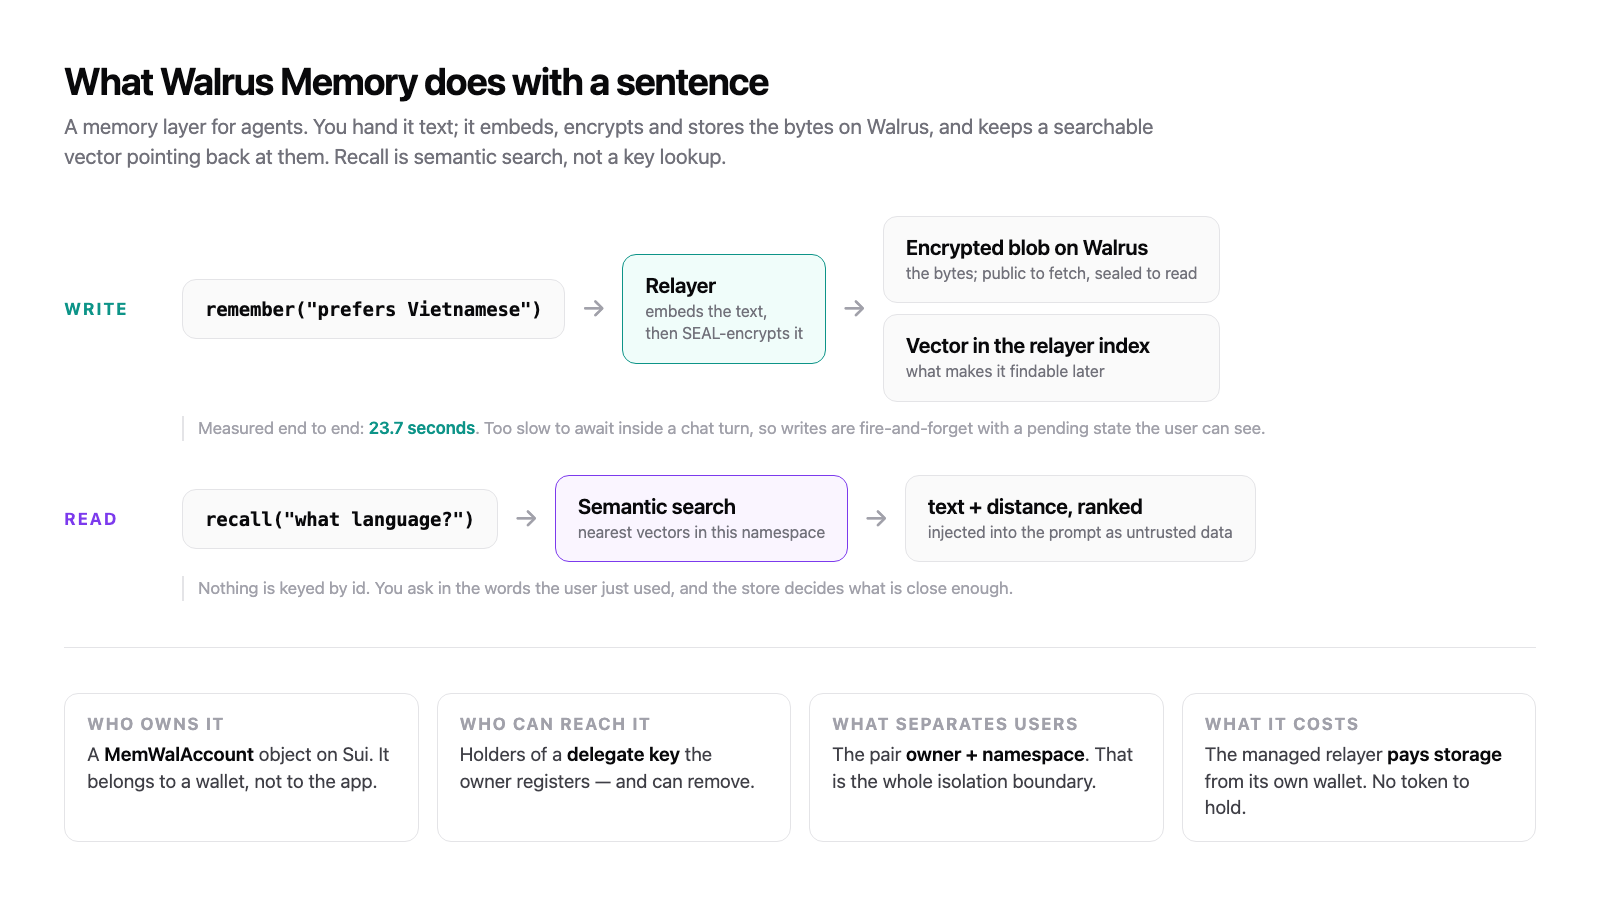
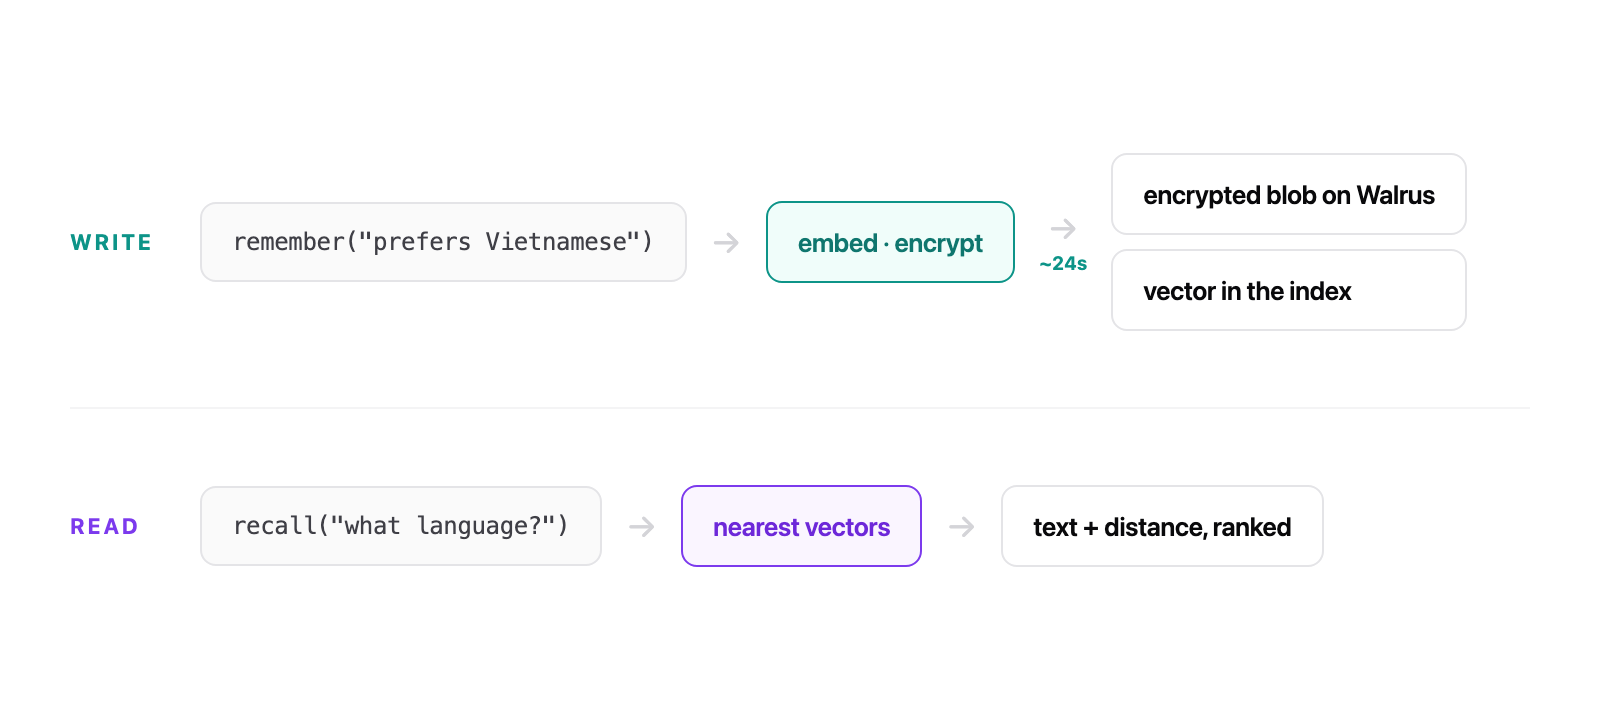
Cut the prose out of the figures and let the captions carry it

diff --git a/docs/article-images/fig2-revoke.html b/docs/article-images/fig2-revoke.html
@@ -2,87 +2,35 @@
 <style>
   *{box-sizing:border-box;margin:0;padding:0}
   html,body{background:#fff}
-  .fig{width:1600px;height:770px;background:#fff;color:#09090b;
+  .fig{width:1600px;height:440px;background:#fff;color:#09090b;
     font-family:-apple-system,BlinkMacSystemFont,"Segoe UI",Roboto,Helvetica,Arial,sans-serif;
-    padding:58px 64px;display:flex;flex-direction:column}
-  h2{font-size:38px;letter-spacing:-.03em;font-weight:660;margin-bottom:8px}
-  .sub{font-size:21px;color:#71717a;margin-bottom:42px;max-width:92ch;line-height:1.45}
-  .cols{display:flex;gap:56px;flex:1}
-  .col{flex:1;display:flex;flex-direction:column}
-  .h3{font-size:17px;letter-spacing:.12em;text-transform:uppercase;font-weight:700;
-    color:#a1a1aa;margin-bottom:18px}
-  .acct{border:1.5px solid #0d9488;border-radius:16px;background:#f0fdfa;padding:24px 26px}
-  .acct .own{font-size:16px;color:#0f766e;letter-spacing:.06em;text-transform:uppercase;
-    font-weight:700;margin-bottom:6px}
-  .acct .nm{font-size:25px;font-weight:660;letter-spacing:-.02em;margin-bottom:4px}
-  .acct .id{font-family:ui-monospace,SFMono-Regular,Menlo,Consolas,monospace;font-size:16px;
-    color:#71717a}
-  .keys{margin-top:16px;display:flex;flex-direction:column;gap:10px}
-  .key{display:flex;align-items:center;gap:13px;border:1.5px solid #e4e4e7;border-radius:12px;
-    padding:14px 18px;background:#fff}
-  .key .dot{width:9px;height:9px;border-radius:50%;background:#0d9488;flex:0 0 auto}
-  .key.off .dot{background:#d4d4d8}
-  .key .nm{font-size:19px;font-weight:600;letter-spacing:-.01em}
-  .key .sub2{font-size:16px;color:#a1a1aa;margin-left:auto}
-  .key.off .nm{color:#a1a1aa}
-  .caption{font-size:17px;color:#71717a;line-height:1.5;margin-top:18px;
-    border-left:2px solid #e4e4e7;padding-left:14px}
-  .caption b{color:#09090b;font-weight:620}
-  /* The measured revocation timeline. */
-  .tl{display:flex;flex-direction:column;gap:0;margin-top:2px}
-  .step{display:flex;gap:18px;align-items:flex-start}
-  .gut{flex:0 0 92px;text-align:right;font-family:ui-monospace,SFMono-Regular,Menlo,Consolas,monospace;
-    font-size:20px;font-weight:620;color:#09090b;padding-top:15px}
-  .line{flex:0 0 auto;width:2px;background:#e4e4e7;position:relative;align-self:stretch;margin:0 4px}
-  .step .card{flex:1;border:1.5px solid #e4e4e7;border-radius:12px;padding:15px 20px;
-    margin-bottom:12px;background:#fafafa}
-  .step .card .k{font-size:19px;font-weight:620;letter-spacing:-.01em}
-  .step .card .v{font-size:16px;color:#71717a;margin-top:3px;line-height:1.4}
-  .step.warn .card{border-color:#f59e0b;background:#fffbeb}
-  .step.warn .gut{color:#b45309}
-  .step.good .card{border-color:#0d9488;background:#f0fdfa}
-  .step.good .gut{color:#0f766e}
+    padding:60px 70px;display:flex;flex-direction:column;justify-content:center}
+  .track{position:relative;display:flex;align-items:flex-start;justify-content:space-between}
+  .rail{position:absolute;left:8%;right:8%;top:19px;height:4px;background:#e4e4e7;border-radius:2px}
+  /* Solid while the removed key was confirmed still working; dashed across the
+     gap between the last accepted call and the first refusal, which is the part
+     the measurement does not pin down. */
+  .rail .live{position:absolute;left:0;width:64.9%;height:4px;background:#f59e0b;border-radius:2px}
+  .rail .gap{position:absolute;left:64.9%;width:26.9%;height:4px;
+    background:repeating-linear-gradient(90deg,#f59e0b 0 9px,transparent 9px 18px)}
+  .pt{position:relative;flex:1;display:flex;flex-direction:column;align-items:center;gap:18px;
+    text-align:center}
+  .dot{width:42px;height:42px;border-radius:50%;background:#fff;border:4px solid #d4d4d8;z-index:1}
+  .pt.warn .dot{border-color:#f59e0b}
+  .pt.end .dot{border-color:#0d9488;background:#0d9488}
+  .t{font-family:ui-monospace,SFMono-Regular,Menlo,Consolas,monospace;font-size:44px;
+    font-weight:700;letter-spacing:-.03em}
+  .pt.warn .t{color:#b45309}
+  .pt.end .t{color:#0f766e}
+  .l{font-size:24px;line-height:1.35;color:#3f3f46;max-width:19ch;font-weight:500}
+  .pt.end .l{font-weight:620;color:#09090b}
 </style>
 <div class="fig">
-  <h2>The bot is a delegate, and a delegate can be fired</h2>
-  <div class="sub">The account belongs to the user's wallet. The bot never holds the owner key — only a
-    delegate key the owner registered on chain and can remove without asking anyone.</div>
-
-  <div class="cols">
-    <div class="col">
-      <div class="h3">The account, on Sui</div>
-      <div class="acct">
-        <div class="own">Owned by your wallet</div>
-        <div class="nm">MemWalAccount</div>
-        <div class="id">0x5a25…a07aa · a public object anyone can read</div>
-        <div class="keys">
-          <div class="key"><span class="dot"></span><span class="nm">hippo (the chatbot)</span><span class="sub2">server-side only</span></div>
-          <div class="key"><span class="dot"></span><span class="nm">Walrus Memory MCP</span><span class="sub2">same memory, other agent</span></div>
-          <div class="key off"><span class="dot"></span><span class="nm">whatever you build next</span><span class="sub2">not yet added</span></div>
-        </div>
-      </div>
-      <div class="caption">The memory is not portable because it is exported. It is portable because a
-        <b>second delegate key on the same account</b> reads exactly what the first one wrote.</div>
-    </div>
-
-    <div class="col">
-      <div class="h3">Removing the key — measured on mainnet</div>
-      <div class="tl">
-        <div class="step"><div class="gut">0s</div><div class="line"></div>
-          <div class="card"><div class="k">You remove the key on chain</div>
-            <div class="v">One transaction from your wallet. The bot is not asked and cannot object.</div></div></div>
-        <div class="step"><div class="gut">3s</div><div class="line"></div>
-          <div class="card"><div class="k">The chain stops listing it</div>
-            <div class="v">The account now shows one delegate instead of two.</div></div></div>
-        <div class="step warn"><div class="gut">15s</div><div class="line"></div>
-          <div class="card"><div class="k">The relayer still accepts it</div>
-            <div class="v">Authentication succeeds. Reads return nothing, but the window is real.</div></div></div>
-        <div class="step good"><div class="gut">32s</div><div class="line"></div>
-          <div class="card"><div class="k">Refused — 401 AUTH_REJECTED</div>
-            <div class="v">Access is over. The memories stay; the reader is gone.</div></div></div>
-      </div>
-      <div class="caption">So: <b>about half a minute, not instantly.</b> That gap is the kind of thing a
-        marketing page rounds away, which is exactly why it is worth measuring rather than claiming.</div>
-    </div>
+  <div class="track">
+    <div class="rail"><div class="live"></div><div class="gap"></div></div>
+    <div class="pt"><div class="dot"></div><div class="t">0s</div><div class="l">key removed on chain</div></div>
+    <div class="pt"><div class="dot"></div><div class="t">3s</div><div class="l">chain stops listing it</div></div>
+    <div class="pt warn"><div class="dot"></div><div class="t">15s</div><div class="l">relayer still accepts it</div></div>
+    <div class="pt end"><div class="dot"></div><div class="t">32s</div><div class="l">401 — access over</div></div>
   </div>
 </div>

diff --git a/docs/article-images/fig1-how-it-works.html b/docs/article-images/fig1-how-it-works.html
@@ -2,76 +2,47 @@
 <style>
   *{box-sizing:border-box;margin:0;padding:0}
   html,body{background:#fff}
-  .fig{width:1600px;height:900px;background:#fff;color:#09090b;
+  .fig{width:1600px;height:720px;background:#fff;color:#09090b;
     font-family:-apple-system,BlinkMacSystemFont,"Segoe UI",Roboto,Helvetica,Arial,sans-serif;
-    padding:58px 64px;display:flex;flex-direction:column}
-  h2{font-size:38px;letter-spacing:-.03em;font-weight:660;margin-bottom:8px}
-  .sub{font-size:21px;color:#71717a;margin-bottom:44px;max-width:88ch;line-height:1.45}
-  .row{display:flex;align-items:center;gap:0;margin-bottom:14px}
-  .tag{flex:0 0 118px;font-size:17px;letter-spacing:.12em;text-transform:uppercase;
+    padding:70px 70px;display:flex;flex-direction:column;justify-content:center;gap:76px}
+  .row{display:flex;align-items:center}
+  .tag{flex:0 0 130px;font-size:22px;letter-spacing:.14em;text-transform:uppercase;
     font-weight:700;color:#0d9488}
-  .tag.read{color:#7c3aed}
-  .box{border:1.5px solid #e4e4e7;border-radius:14px;padding:18px 22px;background:#fafafa;
-    min-width:0}
-  .box .k{font-size:21px;font-weight:620;letter-spacing:-.01em;white-space:nowrap}
-  .box .v{font-size:16px;color:#71717a;margin-top:4px;line-height:1.35}
-  .box.mono .k{font-family:ui-monospace,SFMono-Regular,Menlo,Consolas,monospace;font-size:19px}
-  .box.accent{border-color:#0d9488;background:#f0fdfa}
-  .box.accent2{border-color:#7c3aed;background:#faf5ff}
-  .arrow{flex:0 0 auto;padding:0 16px;color:#a1a1aa;font-size:27px;line-height:1}
-  .stack{display:flex;flex-direction:column;gap:11px}
-  .split{display:flex;flex-direction:column;gap:11px}
-  .measure{margin-left:118px;font-size:17px;color:#a1a1aa;margin-bottom:34px;
-    border-left:2px solid #e4e4e7;padding-left:14px;line-height:1.45}
-  .measure b{color:#0d9488;font-weight:620}
-  .rule{height:1px;background:#e4e4e7;margin:12px 0 34px}
-  .own{display:flex;gap:18px;align-items:stretch;margin-top:auto}
-  .own .cell{flex:1;border:1.5px solid #e4e4e7;border-radius:14px;padding:20px 22px;background:#fff}
-  .own .cell .t{font-size:17px;letter-spacing:.1em;text-transform:uppercase;color:#a1a1aa;
-    font-weight:700;margin-bottom:7px}
-  .own .cell .b{font-size:19px;line-height:1.4;color:#3f3f46}
-  .own .cell .b b{color:#09090b;font-weight:620}
+  .tag.r{color:#7c3aed}
+  .box{border:2px solid #e4e4e7;border-radius:16px;padding:24px 30px;background:#fff;
+    font-size:26px;font-weight:600;letter-spacing:-.015em;white-space:nowrap}
+  .box.mono{font-family:ui-monospace,SFMono-Regular,Menlo,Consolas,monospace;font-size:24px;
+    font-weight:500;background:#fafafa;color:#3f3f46}
+  .box.hot{border-color:#0d9488;background:#f0fdfa;color:#0f766e}
+  .box.hot2{border-color:#7c3aed;background:#faf5ff;color:#6d28d9}
+  .arrow{flex:0 0 auto;display:flex;flex-direction:column;align-items:center;gap:7px;
+    padding:0 24px;color:#d4d4d8}
+  .arrow .a{font-size:34px;line-height:1}
+  .arrow .t{font-size:19px;color:#0d9488;font-weight:700;letter-spacing:.02em}
+  .split{display:flex;flex-direction:column;gap:14px}
+  .sep{height:2px;background:#f4f4f5}
 </style>
 <div class="fig">
-  <h2>What Walrus Memory does with a sentence</h2>
-  <div class="sub">A memory layer for agents. You hand it text; it embeds, encrypts and stores the
-    bytes on Walrus, and keeps a searchable vector pointing back at them. Recall is semantic search,
-    not a key lookup.</div>
-
   <div class="row">
     <div class="tag">Write</div>
-    <div class="box mono"><div class="k">remember("prefers Vietnamese")</div></div>
-    <div class="arrow">→</div>
-    <div class="box accent"><div class="k">Relayer</div><div class="v">embeds the text,<br>then SEAL-encrypts it</div></div>
-    <div class="arrow">→</div>
+    <div class="box mono">remember("prefers Vietnamese")</div>
+    <div class="arrow"><div class="a">→</div></div>
+    <div class="box hot">embed · encrypt</div>
+    <div class="arrow"><div class="a">→</div><div class="t">~24s</div></div>
     <div class="split">
-      <div class="box"><div class="k">Encrypted blob on Walrus</div><div class="v">the bytes; public to fetch, sealed to read</div></div>
-      <div class="box"><div class="k">Vector in the relayer index</div><div class="v">what makes it findable later</div></div>
+      <div class="box">encrypted blob on Walrus</div>
+      <div class="box">vector in the index</div>
     </div>
   </div>
-  <div class="measure">Measured end to end: <b>23.7 seconds</b>. Too slow to await inside a chat turn,
-    so writes are fire-and-forget with a pending state the user can see.</div>
+
+  <div class="sep"></div>
 
   <div class="row">
-    <div class="tag read">Read</div>
-    <div class="box mono"><div class="k">recall("what language?")</div></div>
-    <div class="arrow">→</div>
-    <div class="box accent2"><div class="k">Semantic search</div><div class="v">nearest vectors in this namespace</div></div>
-    <div class="arrow">→</div>
-    <div class="box"><div class="k">text + distance, ranked</div><div class="v">injected into the prompt as untrusted data</div></div>
-  </div>
-  <div class="measure">Nothing is keyed by id. You ask in the words the user just used,
-    and the store decides what is close enough.</div>
-
-  <div class="rule"></div>
-  <div class="own">
-    <div class="cell"><div class="t">Who owns it</div>
-      <div class="b">A <b>MemWalAccount</b> object on Sui. It belongs to a wallet, not to the app.</div></div>
-    <div class="cell"><div class="t">Who can reach it</div>
-      <div class="b">Holders of a <b>delegate key</b> the owner registers — and can remove.</div></div>
-    <div class="cell"><div class="t">What separates users</div>
-      <div class="b">The pair <b>owner + namespace</b>. That is the whole isolation boundary.</div></div>
-    <div class="cell"><div class="t">What it costs</div>
-      <div class="b">The managed relayer <b>pays storage</b> from its own wallet. No token to hold.</div></div>
+    <div class="tag r">Read</div>
+    <div class="box mono">recall("what language?")</div>
+    <div class="arrow"><div class="a">→</div></div>
+    <div class="box hot2">nearest vectors</div>
+    <div class="arrow"><div class="a">→</div></div>
+    <div class="box">text + distance, ranked</div>
   </div>
 </div>

diff --git a/docs/article-images/fig3-models.html b/docs/article-images/fig3-models.html
@@ -2,73 +2,35 @@
 <style>
   *{box-sizing:border-box;margin:0;padding:0}
   html,body{background:#fff}
-  .fig{width:1600px;height:820px;background:#fff;color:#09090b;
+  .fig{width:1600px;height:480px;background:#fff;color:#09090b;
     font-family:-apple-system,BlinkMacSystemFont,"Segoe UI",Roboto,Helvetica,Arial,sans-serif;
-    padding:58px 64px;display:flex;flex-direction:column}
-  h2{font-size:38px;letter-spacing:-.03em;font-weight:660;margin-bottom:8px}
-  .sub{font-size:21px;color:#71717a;margin-bottom:38px;max-width:96ch;line-height:1.45}
+    padding:56px 70px;display:flex;flex-direction:column;justify-content:center}
   table{width:100%;border-collapse:collapse}
-  th{text-align:left;font-size:16px;letter-spacing:.1em;text-transform:uppercase;color:#a1a1aa;
-    font-weight:700;padding:0 20px 13px 0;border-bottom:1.5px solid #e4e4e7}
+  th{text-align:left;font-size:18px;letter-spacing:.1em;text-transform:uppercase;color:#a1a1aa;
+    font-weight:700;padding:0 24px 16px 0;border-bottom:2px solid #e4e4e7}
   th.n,td.n{text-align:center}
-  td{padding:19px 20px 19px 0;border-bottom:1px solid #f4f4f5;font-size:21px;vertical-align:middle}
-  td.m{font-family:ui-monospace,SFMono-Regular,Menlo,Consolas,monospace;font-size:19px;font-weight:600}
-  .pill{display:inline-block;border-radius:999px;padding:6px 16px;font-size:18px;font-weight:620}
-  .ok{background:#f0fdfa;color:#0f766e;border:1.5px solid #99f6e4}
-  .bad{background:#fef2f2;color:#b91c1c;border:1.5px solid #fecaca}
-  .half{background:#fffbeb;color:#b45309;border:1.5px solid #fde68a}
-  .dead{background:#f4f4f5;color:#71717a;border:1.5px solid #e4e4e7}
+  td{padding:24px 24px 24px 0;border-bottom:1px solid #f4f4f5;font-size:25px;vertical-align:middle}
+  td.m{font-family:ui-monospace,SFMono-Regular,Menlo,Consolas,monospace;font-size:23px;font-weight:600}
+  td.c{font-variant-numeric:tabular-nums;color:#3f3f46}
+  .pill{display:inline-block;border-radius:999px;padding:8px 20px;font-size:21px;font-weight:620}
+  .ok{background:#f0fdfa;color:#0f766e;border:2px solid #99f6e4}
+  .bad{background:#fef2f2;color:#b91c1c;border:2px solid #fecaca}
+  .half{background:#fffbeb;color:#b45309;border:2px solid #fde68a}
+  .dead{background:#f4f4f5;color:#71717a;border:2px solid #e4e4e7}
   tr.pick td{background:#fafafa}
-  tr.pick td:first-child{box-shadow:inset 3px 0 0 #0d9488}
-  .cost{color:#3f3f46;font-variant-numeric:tabular-nums}
-  .note{margin-top:34px;display:flex;gap:20px}
-  .note .c{flex:1;border:1.5px solid #e4e4e7;border-radius:14px;padding:20px 24px}
-  .note .c .t{font-size:17px;letter-spacing:.1em;text-transform:uppercase;color:#a1a1aa;
-    font-weight:700;margin-bottom:7px}
-  .note .c .b{font-size:19px;line-height:1.45;color:#3f3f46}
-  .note .c .b b{color:#09090b;font-weight:620}
-  .foot{margin-top:auto;font-size:17px;color:#a1a1aa;line-height:1.45}
+  tr.pick td:first-child{box-shadow:inset 4px 0 0 #0d9488}
 </style>
 <div class="fig">
-  <h2>Cheap models recall fine. They stop being changed by what they recall.</h2>
-  <div class="sub">One eval, two runs per model. It teaches five things in one session, throws the
-    conversation away, then asks four questions in a fresh one. The fifth thing is not a fact — it is a
-    stored instruction, <i>answers in Vietnamese</i>, and nothing in the new session mentions it.</div>
-
   <table>
-    <tr><th>Model</th><th class="n">Facts recalled</th><th class="n">Stored instruction obeyed</th>
-      <th class="n">Cost per run</th><th>What it did</th></tr>
-    <tr class="pick"><td class="m">google/gemini-2.5-flash</td>
-      <td class="n">4/4, 3/4</td>
-      <td class="n"><span class="pill ok">both runs</span></td>
-      <td class="n cost">$0.0035</td>
-      <td>Missed one recall the relayer had dropped anyway</td></tr>
-    <tr><td class="m">qwen/qwen3.7-flash</td>
-      <td class="n">4/4, 4/4</td>
-      <td class="n"><span class="pill half">1 of 2</span></td>
-      <td class="n cost">$0.0010</td>
-      <td>Pulled the instruction into context, answered in English</td></tr>
-    <tr><td class="m">deepseek/deepseek-v4-flash</td>
-      <td class="n">4/4, 4/4</td>
-      <td class="n"><span class="pill bad">neither run</span></td>
-      <td class="n cost">$0.0015</td>
-      <td>Same failure, consistently — not bad luck</td></tr>
-    <tr><td class="m">qwen/qwen3-235b-a22b</td>
-      <td class="n">—</td>
-      <td class="n"><span class="pill dead">no output</span></td>
-      <td class="n cost">$0.0002</td>
-      <td>Returned nothing at all</td></tr>
+    <tr><th>Model</th><th class="n">Facts recalled</th>
+      <th class="n">Stored instruction obeyed</th><th class="n">Cost per run</th></tr>
+    <tr class="pick"><td class="m">google/gemini-2.5-flash</td><td class="n">4/4, 3/4</td>
+      <td class="n"><span class="pill ok">both runs</span></td><td class="n c">$0.0035</td></tr>
+    <tr><td class="m">qwen/qwen3.7-flash</td><td class="n">4/4, 4/4</td>
+      <td class="n"><span class="pill half">1 of 2</span></td><td class="n c">$0.0010</td></tr>
+    <tr><td class="m">deepseek/deepseek-v4-flash</td><td class="n">4/4, 4/4</td>
+      <td class="n"><span class="pill bad">neither run</span></td><td class="n c">$0.0015</td></tr>
+    <tr><td class="m">qwen/qwen3-235b-a22b</td><td class="n">—</td>
+      <td class="n"><span class="pill dead">no output</span></td><td class="n c">$0.0002</td></tr>
   </table>
-
-  <div class="note">
-    <div class="c"><div class="t">The finding</div>
-      <div class="b">The cheap models are <b>a third of the price and no worse at retrieval</b>. They are
-        worse at letting what they retrieved change how they answer.</div></div>
-    <div class="c"><div class="t">What to take from it</div>
-      <div class="b">If your eval only asks <i>did it quote the right fact</i>, every model passes and you
-        learn nothing. Include one item that must change <b>how</b> the answer is written.</div></div>
-  </div>
-
-  <div class="foot">Two runs per model is a small sample and is reported as one. Cost is the OpenRouter
-    balance before and after each run, so it includes retries — not a figure derived from a price table.</div>
 </div>

diff --git a/docs/promo.md b/docs/promo.md
@@ -119,8 +119,9 @@ to own the account, not a balance in it.
 
 **[FIGURE 2 — `article-images/fig2-revoke.png`]**
 
-> *Caption: Measured on Sui mainnet. The removed key still authenticated 15
-> seconds after it left the chain, and was refused by 32.*
+> *Caption: Measured on Sui mainnet. The dashed segment is the part the
+> measurement does not pin down — the removed key still authenticated at 15
+> seconds and was refused by 32, and I do not know where in between it flipped.*
 
 This is the claim the whole idea rests on, so I measured it rather than assuming
 it: create an account, register a delegate key, write a memory with it, remove
@@ -179,17 +180,21 @@ first commit.
 
 **3. Cheap models recall fine and stop being changed by what they recall.**
 
-**[FIGURE 4 — `article-images/fig3-models.png`]**
-
-> *Caption: Two runs per model, reported as the small sample it is. Cost is the
-> OpenRouter balance before and after each run, so it includes retries.*
-
 My eval teaches five things, throws the conversation away, and asks four
 questions in a fresh session. The fifth thing is not a fact, it is the stored
-instruction from figure 3. DeepSeek and Qwen both recalled the facts perfectly,
-pulled the instruction into context, and answered in English anyway — DeepSeek in
-both runs, Qwen in one of two. They are a third of the price and no worse at
-retrieval. They are worse at letting retrieval change their behaviour.
+instruction from figure 3 — *answers in Vietnamese*. DeepSeek and Qwen both
+recalled the facts perfectly, pulled that instruction into context, and answered
+in English anyway.
+
+**[FIGURE 4 — `article-images/fig3-models.png`]**
+
+> *Caption: Two runs per model, reported as the small sample it is. "Stored
+> instruction obeyed" is whether the answer actually came back in Vietnamese.
+> Cost is the OpenRouter balance before and after each run, so it includes
+> retries.*
+
+They are a third of the price and no worse at retrieval. They are worse at
+letting retrieval change their behaviour.
 
 If your eval only asks *did it quote the right fact*, every model passes and you
 learn nothing. Include one item that has to change **how** the answer is written.
@@ -272,10 +277,18 @@ github.com/UyLeQuoc/walrus-session-8-chatbots.
 | File | Size | Used as |
 |---|---|---|
 | `article-images/cover.png` | 1920×1080 | Article cover |
-| `article-images/fig1-how-it-works.png` | 1600×900 | Figure 1, the write and read paths |
-| `article-images/fig2-revoke.png` | 1600×770 | Figure 2, ownership and the measured revocation |
+| `article-images/fig1-how-it-works.png` | 1600×720 | Figure 1, the write and read paths |
+| `article-images/fig2-revoke.png` | 1600×440 | Figure 2, the measured revocation timeline |
 | `article-images/fig4-recall.png` | 1536×548 | Figure 3, the real recall, from production |
-| `article-images/fig3-models.png` | 1600×820 | Figure 4, the model comparison |
+| `article-images/fig3-models.png` | 1600×480 | Figure 4, the model comparison |
+
+**The figures carry no prose, on purpose.** The first versions restated the
+paragraphs around them, which is the most common way an illustrated article gets
+worse: the reader meets the same sentence twice and starts skimming both. Each
+figure now shows only what the text is bad at — a flow, a timeline, a table — and
+everything explanatory lives in the caption or the body. If one of these ever
+needs a sentence inside it to make sense, the sentence belongs in the caption
+instead.
 
 The figure numbering in the article does not match the file numbering, because
 the recall screenshot earned a better position than the slot it was built for.
